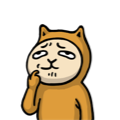
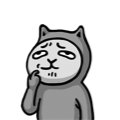
修改重大議題列表中近期戰況list樣式

diff --git a/stylesheets/all.css b/stylesheets/all.css
@@ -797,10 +797,13 @@ ol.carousel-indicators { position: absolute; bottom: -10px; left: 50%; z-index: 
 .topic-item .topic-detail .topic-summary { margin-top: 12px; }
 .topic-item .topic-detail .topic-summary p { font-size: 13px; line-height: 24px; }
 .topic-item .topic-detail .topic-report { margin-top: 24px; }
+.topic-item .topic-detail .topic-report-list { margin: 0; }
+.topic-item .topic-detail .topic-report-list a { color: #333330; }
+.topic-item .topic-detail .topic-report-list a:hover { color: #880013; }
 .topic-item .topic-detail .list li + li, .topic-item .topic-detail .list-with-image li + li { border-top: 1px solid #d4d4d4; }
-.topic-item .topic-detail .topic-no-post { margin-top: 18px; text-align: center; border-top: 1px solid #d4d4d4; border-bottom: 1px solid #d4d4d4; }
+.topic-item .topic-detail .topic-no-post { margin-top: 18px; text-align: center; border-bottom: 1px solid #d4d4d4; }
 .topic-item .topic-detail .topic-no-post span { display: inline-block; font-size: 16.8065px; line-height: 24px; color: #999999; vertical-align: middle; }
-.topic-item .topic-detail .topic-no-post img { display: inline-block; vertical-align: middle; }
+.topic-item .topic-detail .topic-no-post img { display: inline-block; vertical-align: middle; -webkit-filter: saturate(0%); -moz-filter: saturate(0%); filter: saturate(0%); }
 
 @media (min-width: 640px) { .topic-item .topic-header:before { background: -webkit-gradient(linear, to right, to left, color-stop(0%, #000000), color-stop(70%, rgba(0, 0, 0, 0))); background: -webkit-linear-gradient(to right, #000000, rgba(0, 0, 0, 0) 70%); background: -moz-linear-gradient(to right, #000000, rgba(0, 0, 0, 0) 70%); background: -o-linear-gradient(to right, #000000, rgba(0, 0, 0, 0) 70%); background: linear-gradient(to right, #000000, rgba(0, 0, 0, 0) 70%); }
   .topic-item .topic-header .topic-title { padding: 24px 24px 24px 78px; }

diff --git a/sass/page/topic/_topic-card.scss b/sass/page/topic/_topic-card.scss
@@ -90,13 +90,19 @@
     .topic-report {
       @include leader();
     }
+    .topic-report-list {
+      margin: 0;
+      a {
+        color: $text-black;
+        &:hover { color: $color-red; }
+      }
+    }
     .list, .list-with-image {
       li + li { border-top: 1px solid darken($color-gray-light, 10%); }
     }
     .topic-no-post {
       @include leader(.75);
       text-align: center;
-      border-top: 1px solid darken($color-gray-light, 10%);
       border-bottom: 1px solid darken($color-gray-light, 10%);
       span {
         display: inline-block;
@@ -107,6 +113,7 @@
       img {
         display: inline-block;
         vertical-align: middle;
+        @include filter(saturate(0%));
       }
     }
   }
